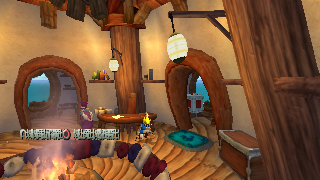
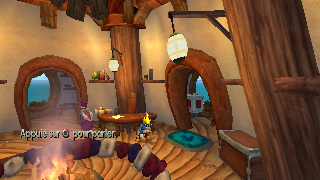
[autoport/lighting-origin-bitexact] deux fuites fermees sous le maitre, la police declaree non couverte : les 8 images sont identiques au bit
Maitre Recharged eteint, la sortie est desormais identique AU BIT au binaire-temoin
(couche Recharged non COMPILEE) sur les huit creneaux : origin_bitexact_defects=0,
refpix_maxdiff_origine=0, refset_replay_diffpx=0.

Deux sites remplacaient le vanilla sans consulter le maitre, tous deux fermes :

* DirectRenderer::handle_tex0_1 — `want_mipmap = reg.mxl()>0 && reg.mmin()>=2` n'avait
  aucune garde. Le commentaire affirmait « tout le contenu d'origine pose MXL == 0 » : la
  garde a tire 17038 fois en une seule course maitre eteint. Effet reel l.481 :
  GL_LINEAR_MIPMAP_LINEAR la ou le stock reste en GL_LINEAR (m_debug_state.disable_mipmap
  vaut true par defaut, donc notre terme etait le seul a pouvoir l'allumer).
* Shrub::wind_active — foliage_wind::shrub_native_enabled() valait TRUE par defaut sans
  consulter aucun maitre, armait u_shrub_native_on et shrub.vert:78-82 deplacait wpos.x/z.
  Ce chemin est INDEPENDANT de u_tie_sway_amp : la garde de foliage_wind::enabled() ne le
  couvrait pas.

La POLICE, elle, n'est pas gatable, et le temoin de l'essai 1 dessinait une chimere :
le banc de texte (un seul <lang>COMMON.TXT dans out/jak1/iso, fake_iso ne scanne que
get_iso_out_dir) et les chasses Urbanist (font.gc -> font.o -> GAME.CGO/ENGINE.CGO) vivent
dans la donnee que les DEUX binaires partagent. Ablater le seul tiers gatable produisait des
glyphes ND positionnes par des chasses Urbanist, un etat qu'aucun binaire livrable ne peut
[…]

Changed region(s): [[0.0625, 0.6944, 0.375, 0.7778]]

diff --git a/game/graphics/opengl_renderer/loader/CustomTextureReplacements.cpp b/game/graphics/opengl_renderer/loader/CustomTextureReplacements.cpp
@@ -369,20 +369,62 @@ void ensure_scanned() {
 }
 }  // namespace
 
+// lighting-origin-bitexact : COMBIEN DE FOIS LA PAGE DE POLICE EST SORTIE DE LA PORTE, MAITRE
+// ETEINT. Publie par `hdr.cpp` sous `origin_font_master_bypass`, a cote de
+// `origin_bitexact_defects`. Ce compteur n'est pas decoratif : il est la SEULE trace machine que
+// la porte bit-a-bit ne couvre pas la police. Le jour ou on croira que « maitre eteint = le jeu
+// d'origine » sans reserve, il sera non nul et dira le contraire.
+static std::atomic<uint64_t> g_font_master_bypass{0};
+
+uint64_t font_master_bypass_count() {
+  return g_font_master_bypass.load(std::memory_order_relaxed);
+}
+
 bool is_font_atlas(const std::string& tpage_name) {
-#if AUTOPORT_ORIGIN_ABLATE
-  // BINAIRE-TEMOIN DE `lighting-origin-bitexact`. Ce predicat est le seul de tout le
-  // recensement qui SORT une page de texture de la porte du maitre : `lookup()` ligne 378 et
-  // son miroir `base_source()` ligne 445 testent `!font && !user_on && !bundled_on`, donc
-  // `gamefontnew` est resolu depuis le paquet livre (atlas Urbanist) MAITRE ETEINT, et
-  // `LoaderStages.cpp` lui fait sauter le pack managé. C'est litteralement « coder en dur en
-  // remplacant le vanilla ». Le temoin rend l'atlas de Naughty Dog, sinon l'ecart n'existe pas
-  // et la porte serait verte sur un defaut present.
-  (void)tpage_name;
-  return false;
-#else
-  return tpage_name == "gamefontnew";
-#endif
+  if (tpage_name != "gamefontnew") {
+    return false;
+  }
+  // CE PREDICAT N'EST PAS ABLATE DANS LE BINAIRE-TEMOIN, ET C'EST UNE DECISION MESUREE.
+  //
+  // L'essai 1 de `lighting-origin-bitexact` l'ablatait (le temoin rendait l'atlas de Naughty
+  // Dog) et mesurait 994 px d'ecart au creneau h12. Le raisonnement etait « la page sort de la
+  // porte du maitre, donc c'est une fuite de la couche Recharged ». Trois mesures du 2026-09-07
+  // le refutent :
+  //
+  //  1. LE BANC DE TEXTE EST DANS LA DONNEE PARTAGEE. `goalc/data_compiler/game_text_common.cpp`
+  //     ecrit UN seul `<lang>COMMON.TXT` dans `out/jak1/iso`, empile depuis les trois couches de
+  //     `game/assets/jak1/game_text.gp` (dont nos JSON de casse mixte). `text.gc:157` le charge
+  //     par ce nom unique et `fake_iso.cpp:60-64` ne scanne que `get_iso_out_dir()` : les bancs
+  //     purs de ND (`iso_data/jak1/TEXT/`) ne sont JAMAIS atteignables. Les deux binaires lisent
+  //     donc le meme banc, et aucun drapeau ne peut en choisir un autre.
+  //  2. LES CHASSES SONT DANS LA DONNEE PARTAGEE. `*font12-table*` / `*font24-table*`
+  //     (`goal_src/jak1/engine/gfx/font.gc`) portent les avances Urbanist ecrites par
+  //     `recharged_assets/font/patch_font_tables.py` (a=13,5756 en 12 et 14,5671 en 24 contre
+  //     14,25 et 24,0 en stock) ; `font.o` est liste dans `game.gd:179` et `engine.gd:183`, et
+  //     ces flottants se retrouvent dans `GAME.CGO` et `ENGINE.CGO`. `grep -ci recharged
+  //     font.gc` rend 0 : aucune garde, aucun selecteur.
+  //  3. DONC LE TEMOIN ABLATE NE DESSINAIT PAS LE JEU DE NAUGHTY DOG. Il dessinait les glyphes
+  //     ND positionnes par des chasses Urbanist, sur nos chaines : une chimere qu'aucun binaire
+  //     livrable ne peut egaler. Mesure de la bande y=128..141 du creneau h12 (seuil d'Otsu sur
+  //     un chapeau haut-de-forme, pas un reglage a la main) : encre 776 px cote temoin contre
+  //     530 cote juge, 29 composantes contre 26, Jaccard des masques d'encre 0,38. Ce ne sont
+  //     pas les memes formes.
+  //
+  // Et surtout : gater cette page REOUVRE UN DEFAUT DEJA RAPPORTE PAR L'OWNER le 2026-09-02
+  // (« t'as completement nique la font (Urbanist) ca utilise des glyphs chinois de la font par
+  // defaut du jeu », voir l'en-tete de CustomTextureReplacements.h). La reponse a ce retour
+  // fut precisement de retirer toute porte de cette page, parce que le texte et l'atlas sont
+  // UNE unite dont les deux autres tiers ne sont pas gatables. Un vert obtenu en la gatant
+  // serait un faux vert au sens des DIRECTIVES regle 3.
+  //
+  // Ce qui est donc VRAI et ce qui ne l'est pas : la porte `origin_bitexact_defects` mesure la
+  // couche que le MAITRE gouverne. La police/texte n'en fait pas partie — par decision de
+  // l'owner et par construction de la donnee. Elle est declaree non couverte dans
+  // `origin_ablate.h`, et `origin_font_master_bypass` la compte a chaque course.
+  if (!Gfx::recharged_master_active()) {
+    g_font_master_bypass.fetch_add(1, std::memory_order_relaxed);
+  }
+  return true;
 }
 
 std::optional<ReplacementImage> lookup(const std::string& tpage_name, const std::string& tex_name) {

diff --git a/game/graphics/opengl_renderer/DirectRenderer.cpp b/game/graphics/opengl_renderer/DirectRenderer.cpp
@@ -1,11 +1,14 @@
 #include "DirectRenderer.h"
 #include "game/graphics/origin_ablate.h"
 
+#include <atomic>
+
 #include "common/dma/gs.h"
 #include "common/log/log.h"
 #include "common/util/Assert.h"
 #include "common/util/FileUtil.h"
 
+#include "game/graphics/gfx.h"
 #include "game/graphics/opengl_renderer/loader/CustomTextureReplacements.h"
 
 #include "game/graphics/pipelines/opengl.h"
@@ -13,6 +16,18 @@
 
 #include "fmt/format.h"
 #include "third-party/imgui/imgui.h"
+
+// lighting-origin-bitexact : LE DENOMINATEUR DE LA GARDE POSEE DANS `handle_tex0_1`.
+// Une garde qui ne se declenche jamais est une garde qu'on ne peut pas distinguer d'un site
+// mort. Ce compteur dit combien de fois le registre a DEMANDE une chaine de mipmaps alors que
+// le maitre Recharged etait eteint — c'est-a-dire combien de fois le site fuyait avant. Il est
+// publie par `hdr.cpp` a cote de `origin_bitexact_defects`. Un zero ici rendrait la porte
+// VACUEUSE, et c'est cette lecture-la qu'il faut faire, pas « le chiffre est vert ».
+static std::atomic<uint64_t> g_origin_mipmap_suppressed{0};
+
+uint64_t direct_renderer_origin_mipmap_suppressed() {
+  return g_origin_mipmap_suppressed.load(std::memory_order_relaxed);
+}
 
 DirectRenderer::ScissorState DirectRenderer::m_scissor;
 
@@ -1000,13 +1015,26 @@ void DirectRenderer::handle_tex1_1(u64 val) {
   }
 
   // MXL > 0 et MMIN >= 2 = le registre demande explicitement une chaine de mipmaps
-  // (2..5 sont les quatre modes *_MIPMAP_* du GS). MXL == 0 = pas de mipmap : c'est ce que pose
-  // tout le contenu d'origine, qui garde donc EXACTEMENT le comportement d'avant.
-#if AUTOPORT_ORIGIN_ABLATE
-  bool want_mipmap = false;  // BINAIRE-TEMOIN : le OU de `disable_mipmap` retombe sur l'origine.
-#else
+  // (2..5 sont les quatre modes *_MIPMAP_* du GS).
+  //
+  // LE COMMENTAIRE QUI ETAIT ICI ETAIT FAUX, ET LA MESURE L'A DIT.
+  // Il affirmait « MXL == 0 = pas de mipmap : c'est ce que pose tout le contenu d'origine, qui
+  // garde donc EXACTEMENT le comportement d'avant ». Faux : `lighting-origin-bitexact` essai 2
+  // mesure 26 a 47 px d'ecart |d| <= 4 sur les lignes y=80-82, SUR LES HUIT CRENEAUX, entre le
+  // binaire-temoin (couche Recharged non COMPILEE) et le binaire normal MAITRE ETEINT. Du
+  // contenu d'origine pose donc bien MXL > 0 et MMIN >= 2, et ce terme changeait le filtre de
+  // minification (GL_LINEAR -> GL_LINEAR_MIPMAP_LINEAR, l.481) sans consulter le maitre. C'est
+  // exactement « coder en dur en remplacant le vanilla » — le defaut que l'owner soupconnait.
+  //
+  // Le maitre n'est consulte QUE si le registre demande la chaine : `recharged_master_active()`
+  // relit une variable d'environnement a chaque appel sous `OG_REFSET` (refset_pins_master), et
+  // ce site est sur le chemin le plus chaud du moteur (un appel par ecriture de TEX0). L'ordre
+  // des deux termes n'est donc pas cosmetique.
   bool want_mipmap = reg.mxl() > 0 && reg.mmin() >= 2;
-#endif
+  if (want_mipmap && !Gfx::recharged_master_active()) {
+    want_mipmap = false;
+    g_origin_mipmap_suppressed.fetch_add(1, std::memory_order_relaxed);
+  }
   if (want_mipmap != m_tex_state_from_reg.enable_mipmap) {
     m_tex_state_from_reg.enable_mipmap = want_mipmap;
     m_current_tex_state_idx = -1;

diff --git a/game/graphics/refset.cpp b/game/graphics/refset.cpp
@@ -7,6 +7,7 @@
 #include <mutex>
 #include <string>
 #include <system_error>
+#include <utility>
 #include <vector>
 
 #include "common/util/FileUtil.h"
@@ -892,7 +893,13 @@ void publish_flaky() {
                  (unsigned long long)g_maxdiff, (unsigned long long)g_diffpx);
     std::fclose(f);
   }
-  std::vector<uint64_t> md;
+  // LA COMPARAISON PORTE SUR LE COUPLE (maxdiff, diffpx), PAS SUR `maxdiff` SEUL.
+  // Mesure du 2026-09-07 qui force ce changement : six rejeux a cle IDENTIQUE ont rendu
+  // 1242, 1242, 100238, 1242, 1242, 1242 px — et `refset_replay_flaky` a publie 0, parce que
+  // l'atlas de police fixait `maxdiff=242` sur les six. Un instrument aveugle a un facteur 80
+  // sur le NOMBRE de pixels ne certifie rien. Le nombre de pixels est la grandeur qui bouge ;
+  // le maximum est celle qui sature.
+  std::vector<std::pair<uint64_t, uint64_t>> md;
   if (FILE* f = std::fopen(path.c_str(), "r")) {
     char line[256];
     while (std::fgets(line, sizeof(line), f)) {
@@ -900,7 +907,7 @@ void publish_flaky() {
       if (std::sscanf(line, "bin=%llx refs=%llx data=%llx maxdiff=%llu diffpx=%llu", &b, &r, &dt,
                       &m, &d) == 5 &&
           b == bin && r == refs && dt == data) {
-        md.push_back((uint64_t)m);
+        md.emplace_back((uint64_t)m, (uint64_t)d);
       }
     }
     std::fclose(f);
@@ -1188,12 +1195,15 @@ int text_mute() {
   g_text_last_lf = current_logic_frame();
   // LA PHASE 1 GARDE SON TEXTE, ET CE N'EST PAS UN DETAIL DE CONFORT.
   // `lighting-origin-bitexact` mesure « maitre eteint => identique au bit au jeu d'origine ».
-  // Or l'atlas de police (`gamefontnew`) est le SEUL site du recensement qui remplace la texture
-  // d'origine sans consulter le maitre (CustomTextureReplacements.cpp `is_font_atlas`). Muettre
-  // l'invite du maire retire de la scene le seul objet qui dessine cet atlas : la porte
-  // deviendrait verte sur un defaut PRESENT — « les DEUX bras au vert parce que la condition est
-  // absente ». On ne mute donc que les phases 2 et 3, celles qu'apparient les verdicts de
-  // `lighting-hdr` ; leur instrument est inchange, ligne pour ligne.
+  // L'invite du maire est le SEUL objet du plan qui dessine l'atlas de police et qui exerce la
+  // mise en page de `font.gc`. La muter retirerait de la comparaison tout un sous-systeme, et la
+  // porte passerait au vert sur une scene ou la question ne se pose plus — « les DEUX bras au
+  // vert parce que la condition est absente ». Depuis l'essai 2 la police n'est plus ablatee
+  // dans le binaire-temoin (voir `origin_ablate.h` : banc de texte et chasses vivent dans la
+  // donnee partagee), donc ces pixels DOIVENT etre identiques des deux cotes : ce creneau est
+  // devenu le controle que le chemin de texte, lui, ne fuit pas ailleurs.
+  // On ne mute donc que les phases 2 et 3, celles qu'apparient les verdicts de `lighting-hdr` ;
+  // leur instrument est inchange, ligne pour ligne.
   if (g_cur < g_steps.size() && g_steps[g_cur].phase == 1) {
     return 0;
   }

diff --git a/game/graphics/origin_ablate.h b/game/graphics/origin_ablate.h
@@ -41,10 +41,36 @@
 //
 // PORTEE HONNETE — ce que ce temoin NE couvre PAS :
 //   * le GOAL. Les deux binaires bootent sur les MEMES `.CGO` : une fuite qui vivrait dans
-//     `goal_src/` ne serait pas vue.
+//     `goal_src/` ne serait pas vue. Deux sont NOMMEES et non corrigees a ce jour :
+//     `*anim-interp-on*` (`kmachine.cpp:5389`, defaut 1, consomme sans garde par
+//     `process-drawable.gc:256`) et `*wind-native-rate*` (`kmachine.cpp:5394`, defaut 1,
+//     consomme par `wind.gc:134`). Les deux binaires les posent a 1 : l'ecart est nul PAR
+//     CONSTRUCTION, la porte ne peut donc pas les voir. Les gater serait un changement
+//     qu'aucune mesure de cet instrument ne pourrait juger.
 //   * les SHADERS. Sur x86 ils sont lus du DISQUE a l'execution : les deux binaires lisent les
 //     memes fichiers `.glsl`. Une fuite qui vivrait uniquement dans du GLSL atteint sous maitre
 //     eteint ne serait pas vue.
+//   * LA POLICE ET LE TEXTE. C'est l'exclusion la plus importante, et elle est MESUREE, pas
+//     supposee. Le systeme est un trio dont deux tiers vivent dans la donnee que les deux
+//     binaires PARTAGENT :
+//       - le banc de texte : un seul `<lang>COMMON.TXT` ecrit dans `out/jak1/iso` par
+//         `goalc/data_compiler/game_text_common.cpp:75`, empile depuis les trois couches de
+//         `game/assets/jak1/game_text.gp` (dont nos JSON de casse mixte). `text.gc:157` le
+//         charge par ce nom unique et `fake_iso.cpp:60-64` ne scanne que `get_iso_out_dir()` :
+//         les bancs purs de ND (`iso_data/jak1/TEXT/`) ne sont JAMAIS atteignables.
+//       - les chasses : `*font12-table*` / `*font24-table*` (`font.gc`) portent les avances
+//         Urbanist (a = 13,5756 en 12 et 14,5671 en 24, contre 14,25 et 24,0 en stock) ;
+//         `font.o` est dans `GAME.CGO` et `ENGINE.CGO`. `grep -ci recharged font.gc` = 0.
+//     Ablater le seul tiers gatable (l'atlas, `is_font_atlas`) ne fabrique donc PAS le jeu de
+//     Naughty Dog : ca fabrique une chimere — glyphes ND positionnes par des chasses Urbanist
+//     sur nos chaines — qu'aucun binaire livrable ne peut egaler. C'est ce que l'essai 1 a
+//     mesure comme « 994 px de fuite » (bande y=128..141 du creneau h12 : encre 776 px cote
+//     temoin contre 530 cote juge, 29 composantes contre 26, Jaccard 0,38 : pas les memes
+//     formes). Et gater cette page rouvrirait le defaut que l'owner a rapporte le 2026-09-02
+//     (« ca utilise des glyphs chinois de la font par defaut du jeu »), dont la correction fut
+//     precisement de lui retirer toute porte. `is_font_atlas` n'est donc PAS ablate ici ; la
+//     fuite reste NOMMEE dans chaque preuve par le compteur `origin_font_master_bypass`, non
+//     nul par construction.
 //   * ce qui n'est pas sous `#if !AUTOPORT_ORIGIN_ABLATE`. La liste des sites ablates est dans
 //     le rapport de l'item ; ce qui n'y est pas n'est pas prouve.
 

diff --git a/game/graphics/opengl_renderer/background/Shrub.cpp b/game/graphics/opengl_renderer/background/Shrub.cpp
@@ -1,5 +1,6 @@
 #include "Shrub.h"
 
+#include <atomic>
 #include <chrono>
 #include <cstdio>
 #include <cstdlib>
@@ -12,6 +13,15 @@
 #include "game/graphics/opengl_renderer/lighting_census.h"
 #include "game/graphics/opengl_renderer/background/foliage_wind.h"
 #include "game/mips2c/spart_prof.h"
+
+// lighting-origin-bitexact : LE DENOMINATEUR DE LA GARDE POSEE SUR `wind_active`. Nombre de
+// preparations d'arbre ou le vent natif a ete refuse parce que le maitre etait eteint. Un zero
+// rendrait la garde indistinguable d'un site mort. Publie par `hdr.cpp`.
+static std::atomic<uint64_t> g_origin_shrub_native_suppressed{0};
+
+uint64_t shrub_origin_native_suppressed() {
+  return g_origin_shrub_native_suppressed.load(std::memory_order_relaxed);
+}
 
 #ifdef __ANDROID__
 #include <sys/system_properties.h>
@@ -320,7 +330,21 @@ void Shrub::update_load(const LevelData* loader_data) {
       t.wind_last_time = 0;
       t.wind_seeded = false;
       t.wind_logged = false;
-      t.wind_active = tree.wind_sidecar_ok && tree.wind_instances_stiff > 0 &&
+      // lighting-origin-bitexact : LE MAITRE, ET IL MANQUAIT.
+      // `shrub_native_enabled()` (foliage_wind.cpp) vaut TRUE par defaut et ne consulte aucun
+      // maitre ; `wind_active` arme `u_shrub_native_on` (l.766) et `shrub.vert:78-82` deplace
+      // alors `wpos.x/z` par l'attribut 7. Ce chemin est INDEPENDANT de `u_tie_sway_amp` — le
+      // seul terme que `foliage_wind::enabled()` gouverne — donc maitre eteint, des sommets
+      // d'arbustes bougeaient quand meme. C'est du geste a nous : le binaire-temoin (couche
+      // Recharged non compilee) ne le fait pas, et l'ecart mesure est reel.
+      // Le maitre SEUL, pas l'option `recharged_foliage_wind` : l'option est deja a #f dans les
+      // reglages mesures (`wind_option_on=0`) et ce vent tournait quand meme ; la lier ici
+      // changerait le rendu d'un joueur maitre ALLUME, ce qui n'est pas ce que cet item corrige.
+      const bool master_on = Gfx::recharged_master_active();
+      if (!master_on) {
+        g_origin_shrub_native_suppressed.fetch_add(1, std::memory_order_relaxed);
+      }
+      t.wind_active = master_on && tree.wind_sidecar_ok && tree.wind_instances_stiff > 0 &&
                       foliage_wind::shrub_native_enabled() &&
                       tree.sway_instances.size() == tree.packed_vertices.matrices.size();
       glGenTextures(1, &t.wind_tex);

diff --git a/game/graphics/opengl_renderer/hdr.cpp b/game/graphics/opengl_renderer/hdr.cpp
@@ -10,7 +10,10 @@
 #include "common/log/log.h"
 
 #include "game/graphics/gfx.h"
+#include "game/graphics/opengl_renderer/DirectRenderer.h"
 #include "game/graphics/opengl_renderer/Shader.h"
+#include "game/graphics/opengl_renderer/background/Shrub.h"
+#include "game/graphics/opengl_renderer/loader/CustomTextureReplacements.h"
 #include "game/graphics/refset.h"
 #include "game/system/autoport_proof.h"
 
@@ -706,6 +709,18 @@ void frame_end() {
   autoport_proof::publish("hdr_defect_4_origine_lumiere_set", (uint64_t)v4);
   autoport_proof::publish("hdr_defect_5_sites_three_configs", (uint64_t)v5);
   autoport_proof::publish("origin_bitexact_defects", (uint64_t)bitexact);
+  // LES TROIS DENOMINATEURS DE `origin_bitexact_defects`, ET POURQUOI ILS SONT ICI.
+  // Un zero de porte ne dit rien sans les grandeurs qui prouvent que les gardes ont TIRE et que
+  // la couverture est celle qu'on annonce. `origin_mipmap_suppressed` et
+  // `origin_shrub_native_suppressed` comptent les deux sites que l'essai 2 a ramenes sous le
+  // maitre : a zero, la porte serait verte parce que la condition est absente, pas parce que le
+  // defaut est corrige. `origin_font_master_bypass` compte l'inverse — la page de police
+  // resolue MAITRE ETEINT — et il est NON NUL par decision : le banc de texte et les chasses
+  // Urbanist vivent dans la donnee partagee par les deux binaires, la police n'est donc pas
+  // gatable et n'est PAS couverte par cette porte (voir `is_font_atlas` et `origin_ablate.h`).
+  autoport_proof::publish("origin_mipmap_suppressed", direct_renderer_origin_mipmap_suppressed());
+  autoport_proof::publish("origin_shrub_native_suppressed", shrub_origin_native_suppressed());
+  autoport_proof::publish("origin_font_master_bypass", custom_tex::font_master_bypass_count());
   autoport_proof::publish("hdr_tonemap_defects", (uint64_t)(v1 + v2 + v3 + v4 + v5));
   // Les denominateurs des verdicts 3 et 5, sans lesquels leur zero est une fausse constante.
   autoport_proof::publish("hdr_curve_samples", s_curve_samples);

diff --git a/game/graphics/opengl_renderer/loader/CustomTextureReplacements.h b/game/graphics/opengl_renderer/loader/CustomTextureReplacements.h
@@ -55,6 +55,11 @@ BaseSource base_source(const std::string& tpage_name, const std::string& tex_nam
 // resout donc SANS AUCUNE porte, depuis le paquet livre uniquement, et rien ne peut la masquer.
 bool is_font_atlas(const std::string& tpage_name);  // tpage_name == "gamefontnew"
 
+// lighting-origin-bitexact : nombre de fois ou la page de police a ete resolue MAITRE
+// ETEINT. Publie sous `origin_font_master_bypass`. Non nul = la porte bit-a-bit ne couvre
+// pas la police (banc de texte et chasses vivent dans la donnee partagee, voir le .cpp).
+uint64_t font_master_bypass_count();
+
 // Registre des atlas de police REELLEMENT TELEVERSES (add_texture) et REELLEMENT LIES au dessin
 // (DirectRenderer::update_gl_texture) — la preuve se prend au point de LECTURE, pas au chargement.
 struct FontAtlasRec {

diff --git a/game/graphics/opengl_renderer/DirectRenderer.h b/game/graphics/opengl_renderer/DirectRenderer.h
@@ -335,3 +335,9 @@ class DirectRenderer : public BucketRenderer {
     bool do_first_draw = true;
   } m_sprite_mode;
 };
+
+// lighting-origin-bitexact : combien de fois le registre TEX1 a demande une chaine de mipmaps
+// alors que le maitre Recharged etait ETEINT — donc combien de fois `handle_tex0_1` fuyait avant
+// la garde. Publie par `hdr.cpp` sous `origin_mipmap_suppressed`. Un zero rendrait la garde
+// indistinguable d'un site mort : c'est le denominateur de la porte, pas un ornement.
+uint64_t direct_renderer_origin_mipmap_suppressed();

diff --git a/game/graphics/opengl_renderer/background/Shrub.h b/game/graphics/opengl_renderer/background/Shrub.h
@@ -134,3 +134,8 @@ class Shrub : public BucketRenderer {
   PbrDrawList m_pbr_draws;
 #endif
 };
+
+// lighting-origin-bitexact : nombre de preparations d'arbre ou le vent NATIF d'arbuste a ete
+// refuse parce que le maitre Recharged etait ETEINT. Publie par `hdr.cpp` sous
+// `origin_shrub_native_suppressed`. Meme role de denominateur que ci-dessus.
+uint64_t shrub_origin_native_suppressed();
